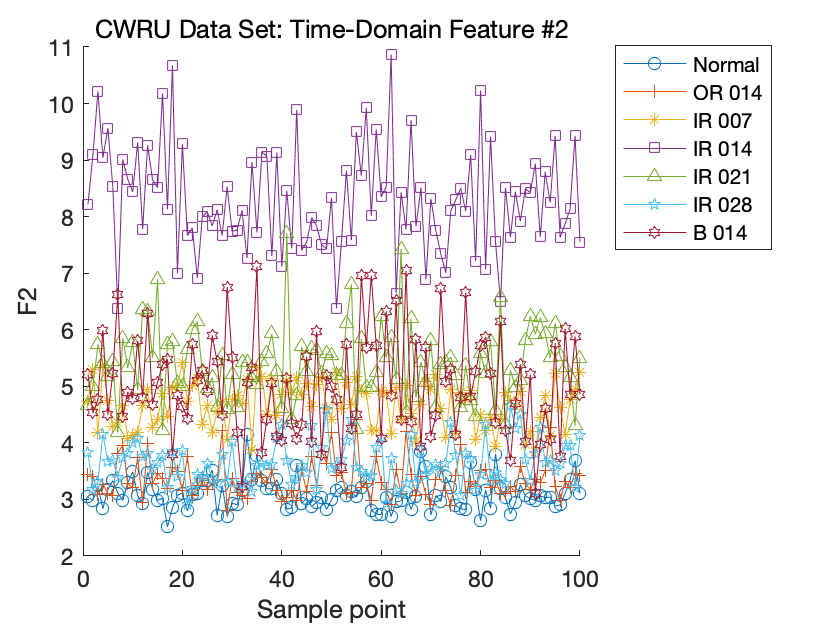
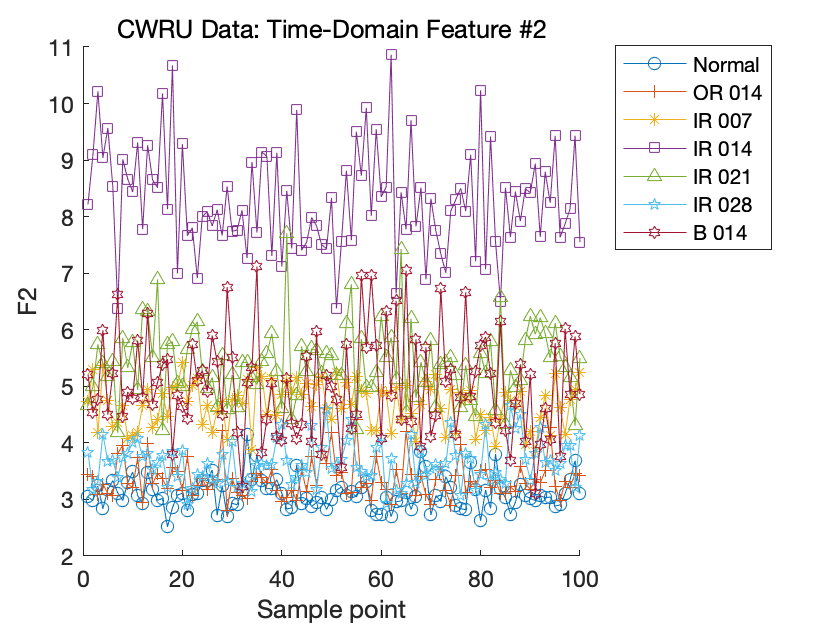
Visualise the time-domain features of the CWRU data set

Changed region(s): [[0.0936, 0.0304, 0.6867, 0.0608]]

diff --git a/src/visualization/CWRU_time_features.m b/src/visualization/CWRU_time_features.m
@@ -66,7 +66,7 @@ for f=1:F
     plot(F_time_a5(f, :), 'Marker' , '^');
     plot(F_time_a6(f, :), 'Marker' , 'p');
     plot(F_time_a7(f, :), 'Marker' , 'h');
-    title(strcat('CWRU Data Set: Time-Domain Feature #', num2str(f)));
+    title(strcat('CWRU Data: Time-Domain Feature #', num2str(f)));
     xlabel('Sample point');
     ylabel(strcat('F', num2str(f)));
     legend('Normal', 'OR 014', 'IR 007', 'IR 014', 'IR 021', 'IR 028', 'B 014', 'Location', 'northeastoutside');
